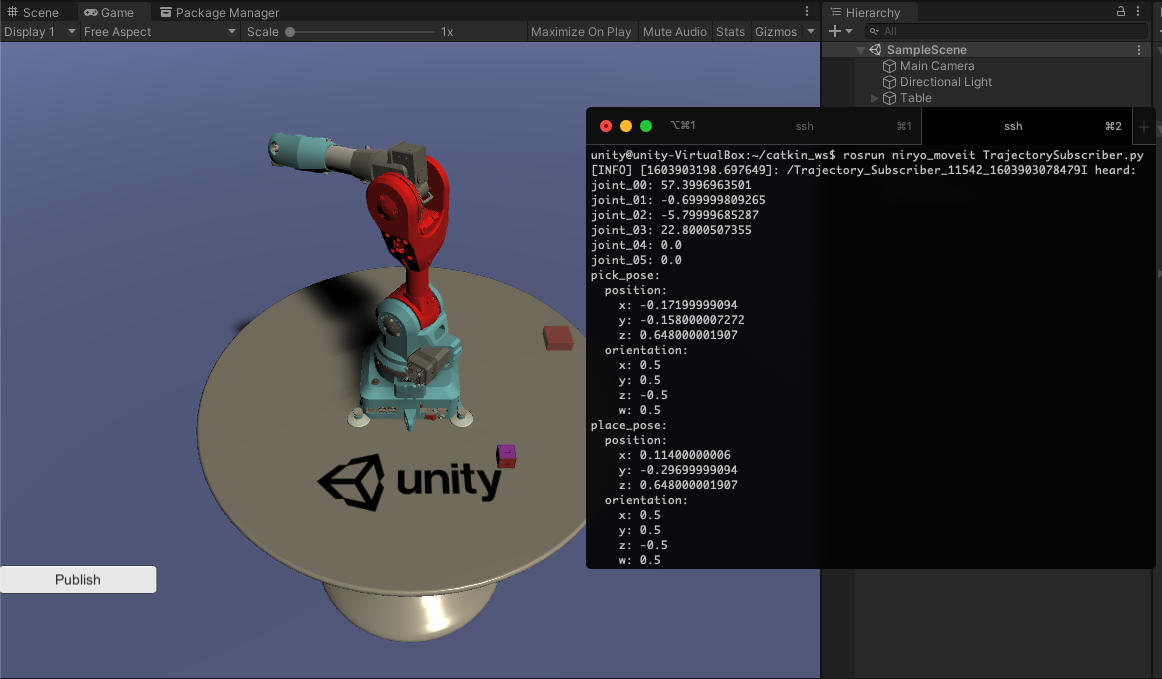
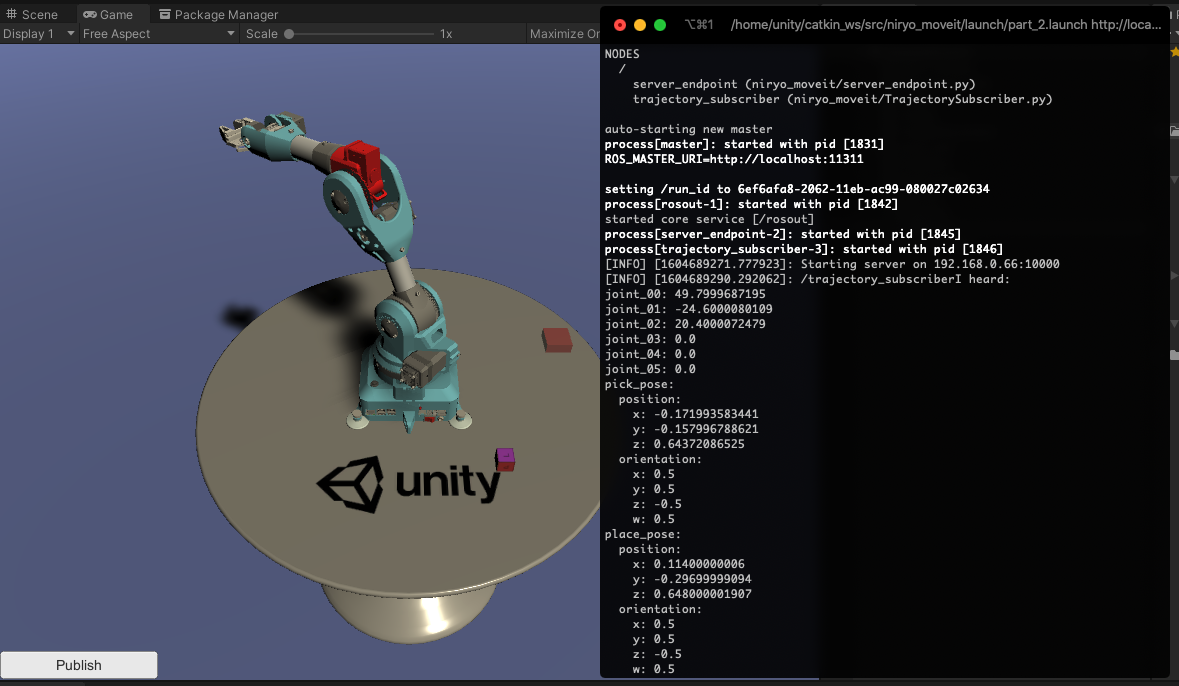
AIRO-282: Updated P&P tutorials to launch files

diff --git a/tutorials/pick_and_place/2_ros_tcp.md b/tutorials/pick_and_place/2_ros_tcp.md
@@ -59,7 +59,7 @@ Navigate to the `Unity-Robotics-Hub/tutorials/pick_and_place/ROS` directory of t
   
    > MessageGeneration generates two C# classes, a request and response, from a ROS srv file with protections for use of C# reserved keywords and conversion to C# datatypes. Learn more about [ROS Services](https://wiki.ros.org/Services).
 
-1. In this cloned or downloaded repo, navigate to `Unity-Robotics-Hub/tutorials/pick_and_place`. Select and copy the `Scripts` folder and contents into the `Assets` folder of your Unity project. You should now find two C# scripts in your project's `Assets/Scripts`.
+2. In this repo, navigate to `Unity-Robotics-Hub/tutorials/pick_and_place`. Select and copy the `Scripts` folder and contents into the `Assets` folder of your Unity project. You should now find two C# scripts in your project's `Assets/Scripts`.
 
    Note the SourceDestinationPublisher script. This script will communicate with ROS, grabbing the positions of the target and destination objects and sending it to the ROS Topic `"SourceDestination_input"`. On `Start()`, the TCP connector is instantiated with a ROS host name and port, and the articulation body values are assigned based on the GameObjects that will be assigned shortly. The `Publish()` function is defined as follows:
 
@@ -106,24 +106,24 @@ Navigate to the `Unity-Robotics-Hub/tutorials/pick_and_place/ROS` directory of t
 
    > Note: Going from Unity world space to ROS world space requires a conversion. Unity's `(x,y,z)` is equivalent to the ROS `(z,-x,y)` coordinate.
 
-1. Return to the Unity Editor. Right click in the Hierarchy window and select "Create Empty" to add a new empty GameObject. Name it `Publisher`. Add the newly created SourceDestinationPublisher component to the Publisher GameObject by selecting the Publisher object. Click "Add Component" in the Inspector, and begin typing "SourceDestinationPublisher." Select the component when it appears.       
+3. Return to the Unity Editor. Right click in the Hierarchy window and select "Create Empty" to add a new empty GameObject. Name it `Publisher`. Add the newly created SourceDestinationPublisher component to the Publisher GameObject by selecting the Publisher object. Click "Add Component" in the Inspector, and begin typing "SourceDestinationPublisher." Select the component when it appears.       
    > Alternatively, you can drag the script from the Project window onto the Publisher object in the Hierarchy window.
 
    ![](img/2_sourcedest.gif)
 
-2. Create another GameObject, name it RosConnect, and add the script `Assets/Plugins/TCPConnector/ROSConnection` to it in the same way.
+4. Create another GameObject, name it RosConnect, and add the script `Assets/Plugins/TCPConnector/ROSConnection` to it in the same way.
 
-4. Select the Target object in the Hierarchy and assign it to the `Target` field in the Publisher. Similarly, assign the TargetPlacement object to the `TargetPlacement` field. Assign the niryo_one robot to the `Niryo One` field. Finally, assign the newly created RosConnect object to the `Ros` field.
+5. Select the Target object in the Hierarchy and assign it to the `Target` field in the Publisher. Similarly, assign the TargetPlacement object to the `TargetPlacement` field. Assign the niryo_one robot to the `Niryo One` field. Finally, assign the newly created RosConnect object to the `Ros` field.
 
    ![](img/2_target.gif)
 
-5. Once again, select the RosConnect object. The `Host Name` should be the IP address of your ROS machine (*not* the one running Unity).
+6. Once again, select the RosConnect object. The `Host Name` should be the IP address of your ROS machine (*not* the one running Unity).
 
    - Find the IP address of your ROS machine. In Ubuntu, open a terminal window, and enter `hostname -I`.
 
    - Replace the `Host Name` value with the IP address of your ROS machine. Ensure that the `Host Port` is set to `10000`.
 
-6. In the Hierarchy window, right click to add a new UI > Button. Note that this will create a new Canvas parent as well. 
+7. In the Hierarchy window, right click to add a new UI > Button. Note that this will create a new Canvas parent as well. 
 	> Note: In the `Game` view, you will see the button appear in the bottom left corner as an overlay. In `Scene` view the button will be rendered on a canvas object that may not be visible.
    
    > In case the Button does not start in the bottom left, it can be moved by setting the `Pos X` and `Pos Y` values in its Rect Transform component. For example, setting its Position to `(-200, -200, 0)` would set its position to the bottom right area of the screen. 
@@ -165,17 +165,39 @@ Navigate to the `Unity-Robotics-Hub/tutorials/pick_and_place/ROS` directory of t
 
  - Additionally, note the file `src/niryo_moveit/scripts/TrajectorySubscriber.py`. This script subscribes to the SourceDestination topic. When something is published to this topic, this script will print out the information heard. 
 
-2. Follow the steps in the [ROS–Unity Integration Setup](../ros_unity_integration/setup.md) to start ROS Core and set ROS params.
+1. If you have not already built and sourced the ROS workspace since importing the new ROS packages, navigate to your ROS workplace, and run `catkin_make && source devel/setup.bash`. Ensure there are no errors.
 
-3. Open a new terminal window in the ROS workspace and start the server endpoint with the following command:
+1. The ROS parameters will need to be set to your configuration. You will need to know the IP address of your ROS machine as well as the IP address of the machine running Unity. Navigate to `src/niryo_moveit/config/params.yaml` and open the file for editing. 
+    - The ROS machine IP, i.e. `ROS_IP` should be the same value as the one set as hostName on the RosConnect component in Unity.
+    - Finding the IP address of your local machine (the one running Unity), i.e. `UNITY_IP` depends on your operating system.
+        - On a Mac, open `System Preferences > Network`. Your IP address should be listed on the active connection.
+        - On Windows, click the Wi-Fi icon on the taskbar, and open `Properties`. Your IP address should be listed near the bottom, next to "IPv4 address."
 
-    ```bash
-    source devel/setup.bash
+    Ensure that the `ROS_TCP_PORT` is set to 10000, and the `UNITY_SERVER_PORT` is set to 5005.
 
-    rosrun niryo_moveit server_endpoint.py
+    ```yaml
+    ROS_IP: 192.168.50.149
+    ROS_TCP_PORT: 10000
+    UNITY_IP: 192.168.50.13
+    UNITY_SERVER_PORT: 5005
+    rosdistro: 'melodic'
     ```
 
-4. Return to Unity, and press Play. Click the UI Button in the Game view to call SourceDestinationPublisher's `Publish()` function, publishing the associated data to the ROS topic. View the terminal in which the `rosrun niryo_moveit TrajectorySubscriber.py` command is running--it should now print `I heard:` with the data.
+    > To set up the ROS–Unity integration in a different project, follow the steps in the [ROS–Unity Integration Setup](../ros_unity_integration/setup.md).
+
+2. Open a new terminal window in the ROS workspace. Once again, source the workspace. Then, run the following `roslaunch` in order to set the ROS parameters, start the server endpoint, and run the TrajectorySubscriber.
+
+    ```bash
+    roslaunch niryo_moveit part_2.launch
+    ```
+
+    > The launch files for this project are available in the package's `launch` directory, i.e. `src/niryo_moveit/launch/`.
+
+    This launch will print various messages to the console, including the set parameters and the nodes launched. 
+    
+    Ensure that the `process[server_endpoint]` and `process[trajectory_subscriber]` were successfully started, and that a message similar to `[INFO] [1603488341.950794]: Starting server on 192.168.50.149:10000` is printed.
+
+3. Return to Unity, and press Play. Click the UI Button in the Game view to call SourceDestinationPublisher's `Publish()` function, publishing the associated data to the ROS topic. View the terminal in which the `roslaunch` command is running--it should now print `I heard:` with the data.
   
 ROS and Unity have now successfully connected!
 
@@ -188,7 +210,7 @@ ROS and Unity have now successfully connected!
 
 - `...failed because unknown error handler name 'rosmsg'` This is due to a bug in an outdated version. Try running `sudo apt-get update && sudo apt-get upgrade` to upgrade.
   
-- If Unity fails to find a network connection, ensure that the ROS IP address is entered correctly as the Host Name in the RosConnect in Unity. 
+- If Unity fails to find a network connection, ensure that the ROS IP address is entered correctly as the Host Name in the RosConnect in Unity, and that the `src/niryo_moveit/config/params.yaml` values are set correctly. 
 
 ---
 

diff --git a/tutorials/pick_and_place/3_naive.md b/tutorials/pick_and_place/3_naive.md
@@ -164,33 +164,27 @@ Steps covered in this tutorial includes invoking a motion planning service in RO
 
 ## ROS–Unity Communication
 
-1. The ROS side is now ready to interface with Unity! Open a new terminal window and navigate to your catkin workspace. Follow the steps in the [ROS–Unity Integration Setup](../ros_unity_integration/setup.md) to start ROS Core, set ROS params, and start the server endpoint in the first terminal window.
+1. The ROS side is now ready to interface with Unity! Open a new terminal window and navigate to your catkin workspace. If you have not already set the values in `params.yaml`, return to [Part 2: ROS–Unity Integration](2_ros_tcp.md#the-ros-side) to finish setting up.
 
-2. Open a new terminal window in your ROS workspace and start the Mover Service node.
+    > To set up the ROS–Unity integration in a different project, follow the steps in the [ROS–Unity Integration Setup](../ros_unity_integration/setup.md).
 
-    ``` bash
-    source devel/setup.bash
-
-    rosrun niryo_moveit mover.py
-    ```
-
-    Once this process is ready, it will print `Ready to plan` to the console.
-
-3. Open a new terminal window in your ROS workspace and launch MoveIt by calling `demo.launch`.
-	- This launch file loads all relevant files and starts ROS nodes required for trajectory planning for the Niryo One robot.
+2. Open a new terminal window in the ROS workspace. Once again, source the workspace. Then, run the following `roslaunch` in order to set the ROS parameters, start the server endpoint, start the Mover Service node, and launch MoveIt. 
+    - This launch file also loads all relevant files and starts ROS nodes required for trajectory planning for the Niryo One robot (`demo.launch`). The launch files for this project are available in the package's `launch` directory, i.e. `src/niryo_moveit/launch/`.
 	> Descriptions of what these files are doing can be found [here](moveit_fiile_descriptions.md).
 
-    ``` bash
-    source devel/setup.bash
-
-    roslaunch niryo_moveit demo.launch
+    ```bash
+    roslaunch niryo_moveit part_3.launch
     ```
 
-    This may print out various error messages regarding the controller_spawner, such as `[controller_spawner-4] process has died`. These messages are safe to ignore, so long as the final message to the console is `You can start planning now!`.
+    This launch will print various messages to the console, including the set parameters and the nodes launched. 
+
+    The final two messages should confirm `You can start planning now!` and `Ready to plan`.
+
+    > This may print out various error messages such as `Failed to find 3D sensor plugin`. These messages are safe to ignore, so long as the final message to the console is `You can start planning now!`.
 
     The ROS side of the setup is ready! 
 
-1. Return to the Unity Editor and press Play. Press the UI Button to send the joint configurations to ROS, and watch the robot arm pick and place the cube! 
+2. Return to the Unity Editor and press Play. Press the UI Button to send the joint configurations to ROS, and watch the robot arm pick and place the cube! 
    - The target object and placement positions can be moved around during runtime for different trajectory calculations. 
   
 ![](img/0_pick_place.gif)
@@ -222,6 +216,5 @@ Steps covered in this tutorial includes invoking a motion planning service in RO
 - If the robot appears loose/wiggly or is not moving with no console errors, ensure that the Stiffness and Damping values on the Controller script of the `niryo_one` object are set to `10000` and `100`, respectively.
 
 - If the robot moves to the incorrect location, or executes the poses in an expected order, verify that the shoulder_link (i.e. `niryo_one/world/base_link/shoulder_link`) X Drive Force Limit is `5`.
-<!-- -  Also verify that the forearm_link, wrist_link, hand_link, right_gripper, and left_gripper, (i.e. `niryo_one/world/base_link/shoulder_link/arm_link/elbow_link/forearm_link/...` etc.) X Drive Force Limit is `1000`. -->
 
 - Before entering Play mode in the Unity Editor, ensure that all ROS processes are still running. The `server_endpoint.py` script may time out, and will need to be re-run.
